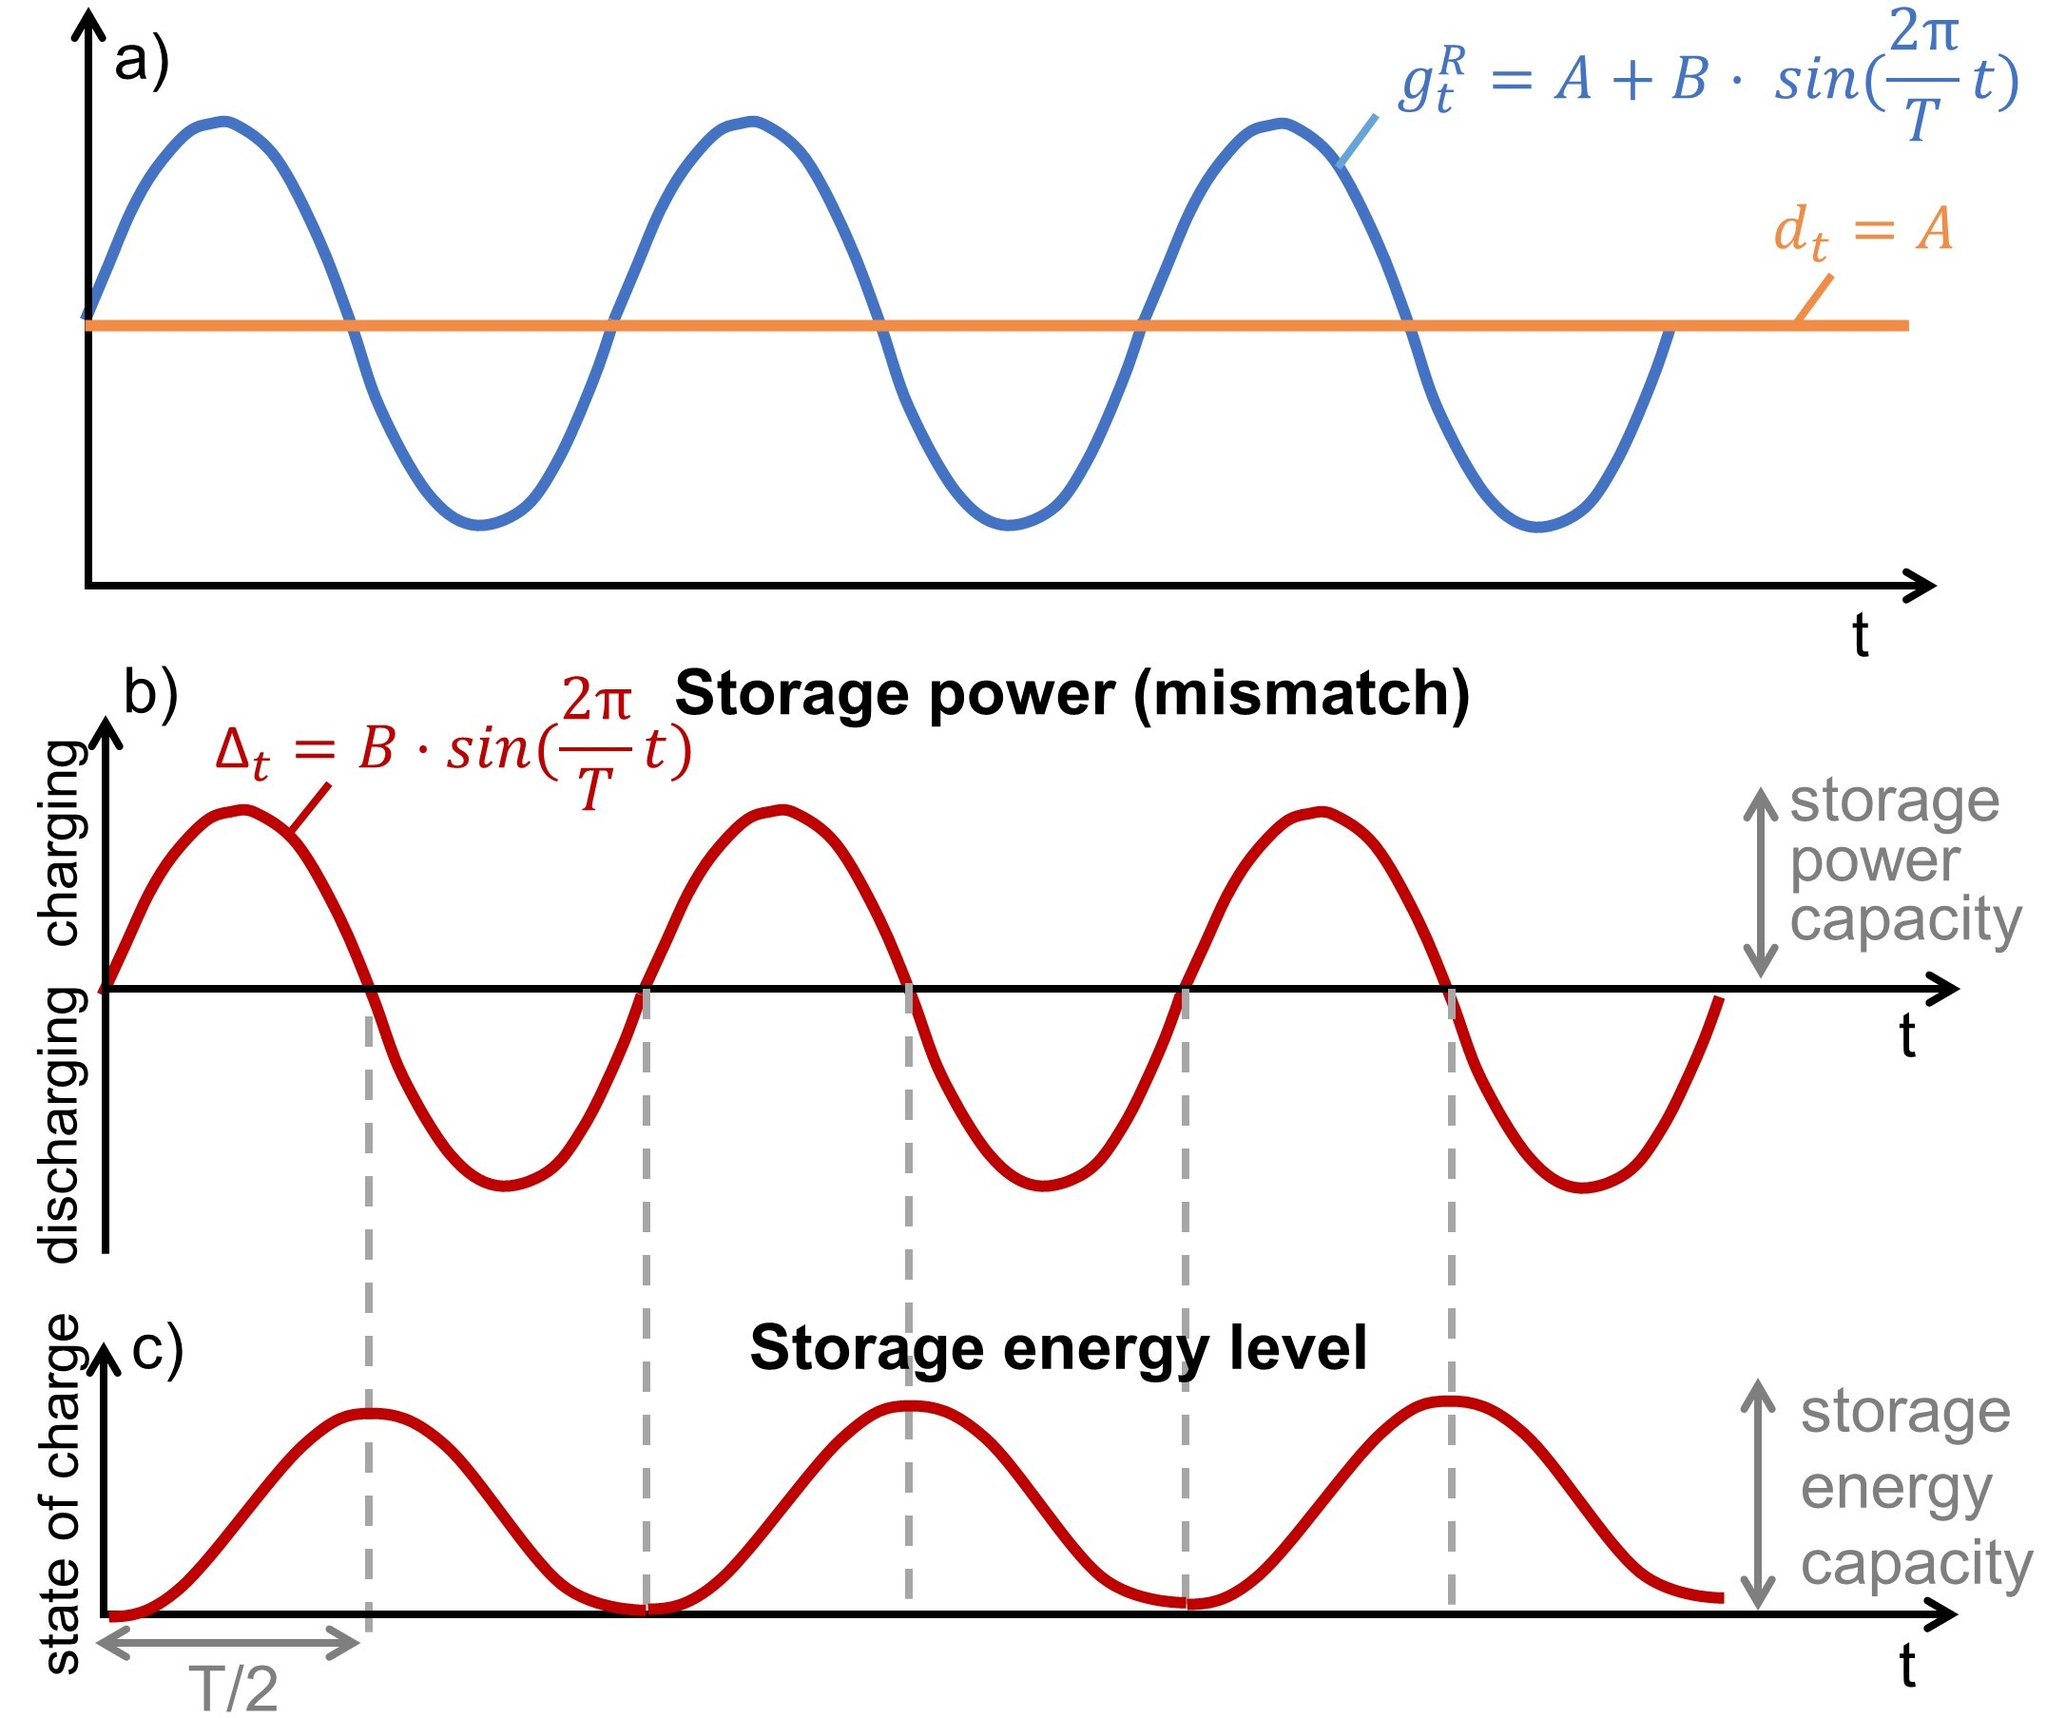
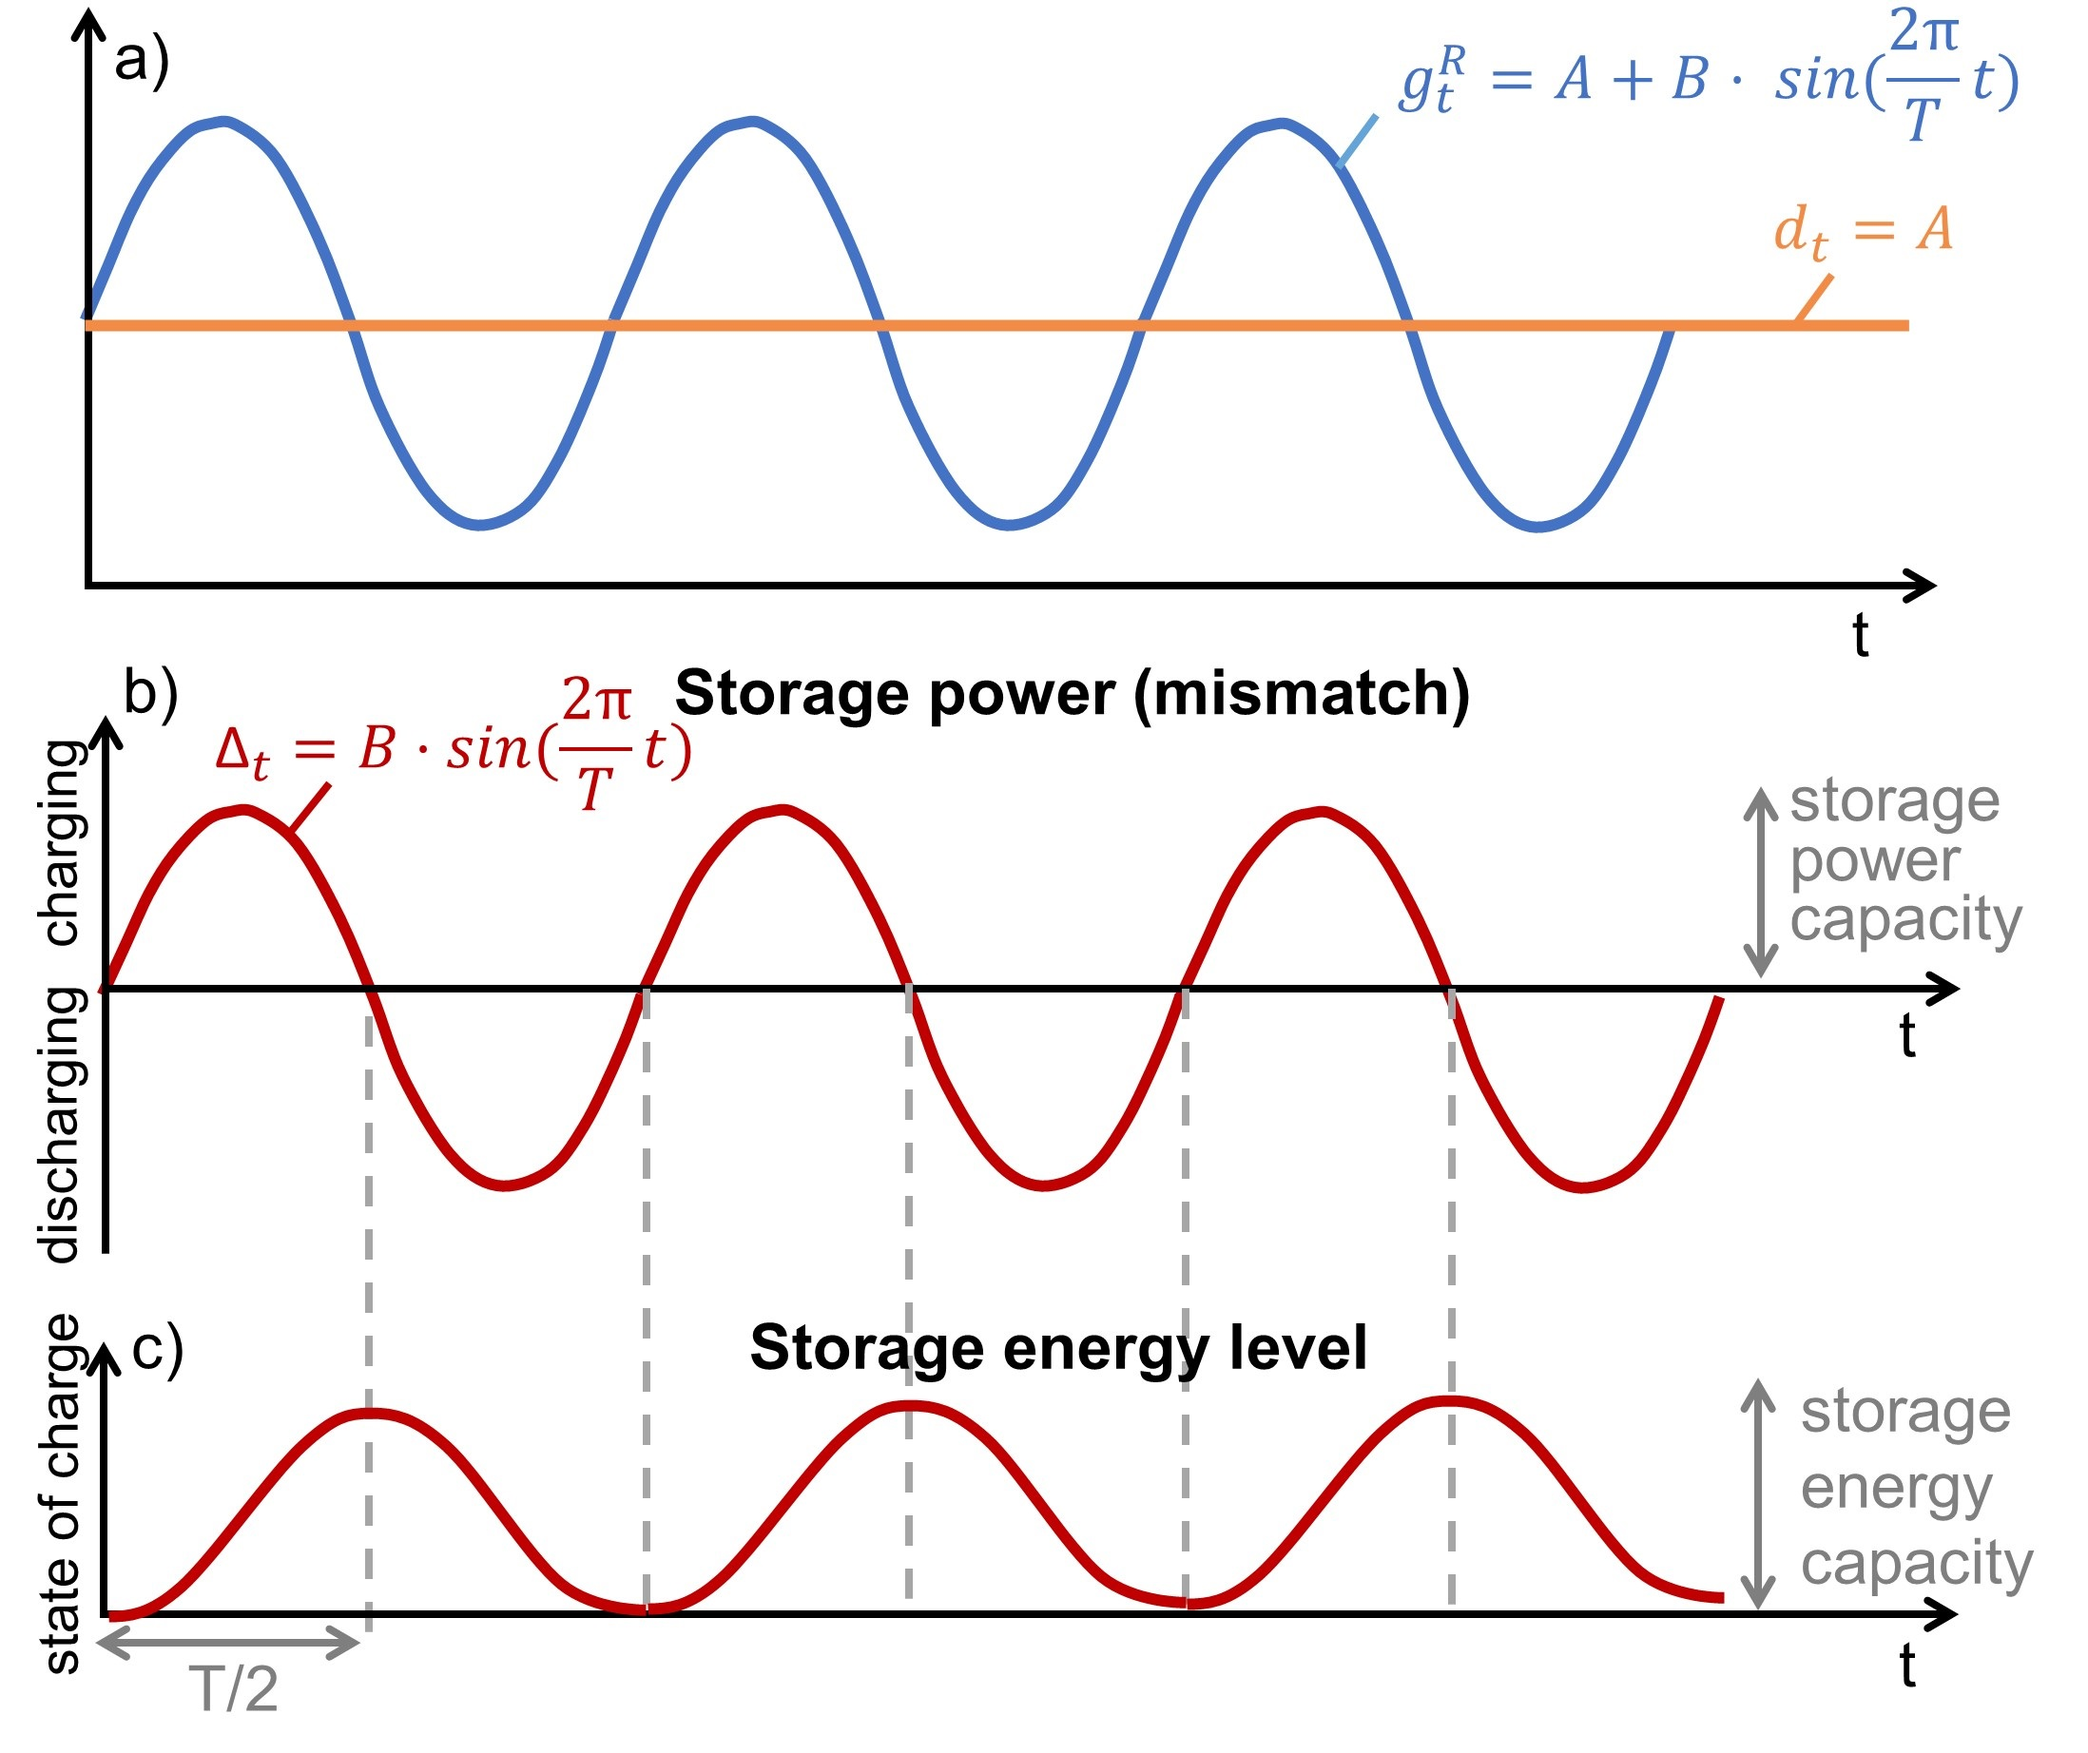
increase resolution figures chapter 14

diff --git a/Figures/Chapter_14/wind_solar_demand.py b/Figures/Chapter_14/wind_solar_demand.py
@@ -292,7 +292,7 @@ ax2.annotate('backup \n energy', fontsize=14, xy=(0.8, 0.2),
                              color='dimgray',
                              lw=2))
 plt.savefig('figures/mismatch_{}.jpg'.format(country), 
-            dpi=300) #, bbox_inches='tight')
+            dpi=300, bbox_inches='tight')
 #%%
 """
 Wind and solar seasonal complementarity figure
